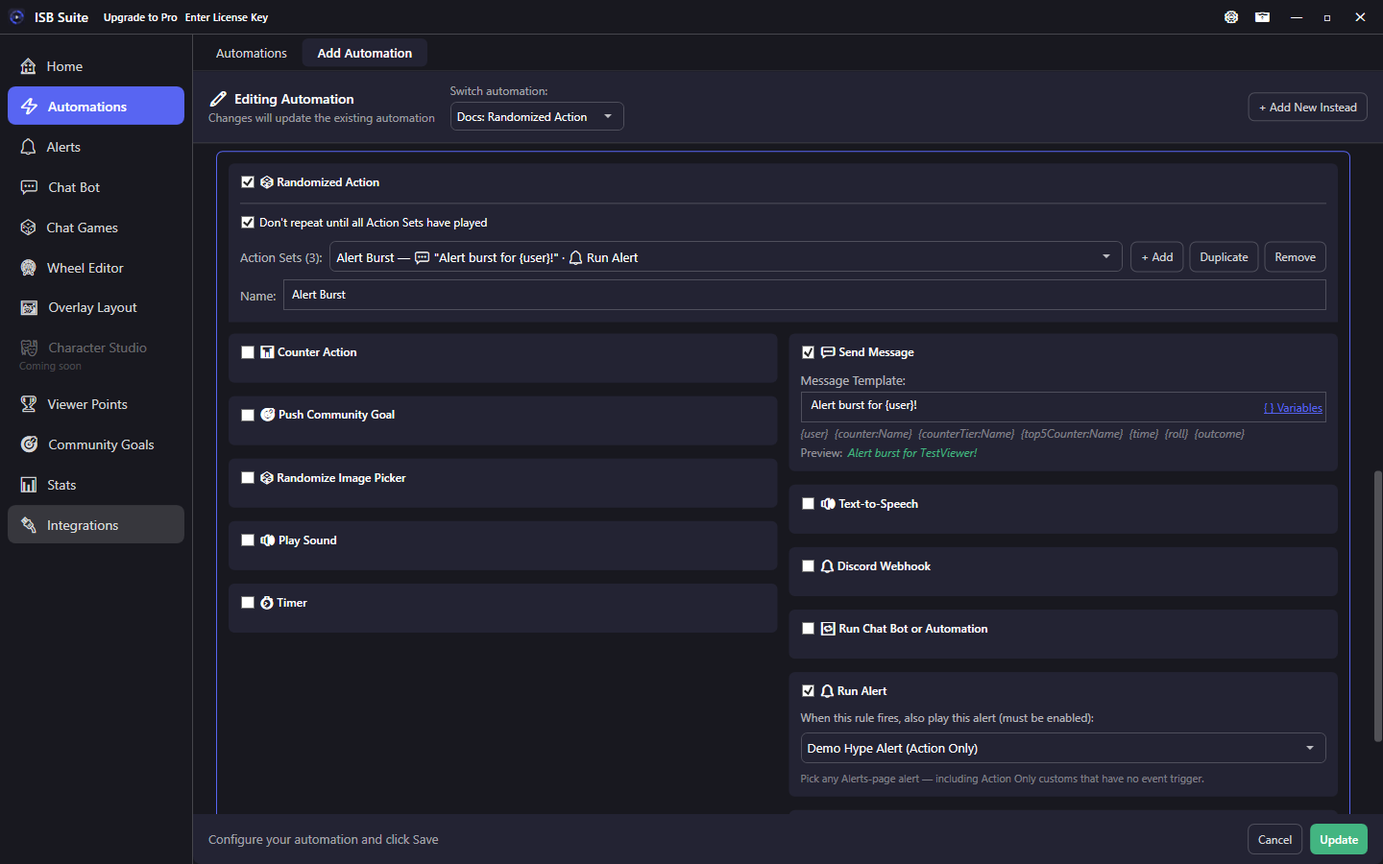
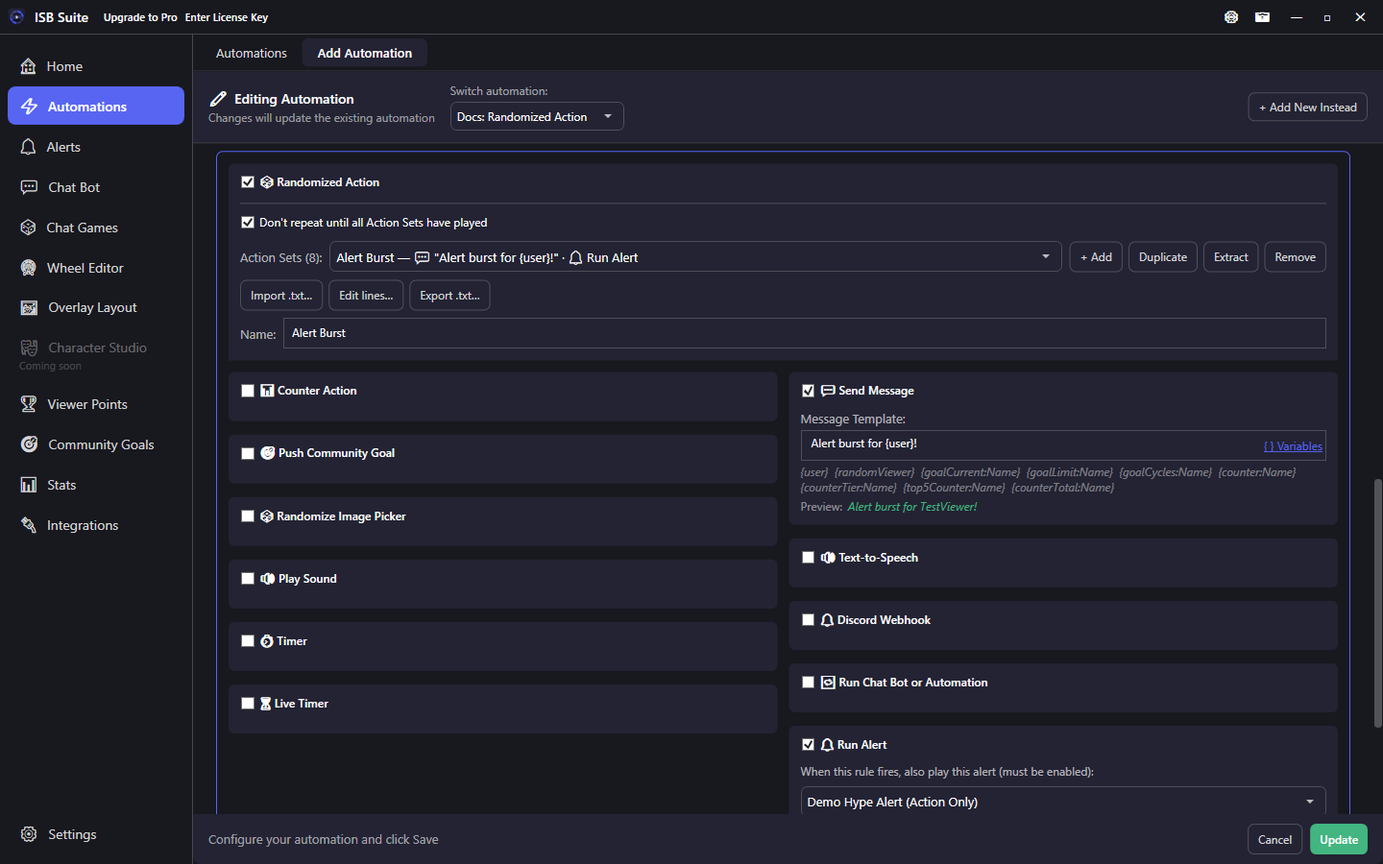
docs: randomized action txt import and README catch-up

diff --git a/docs/features/actions/randomized-action.html b/docs/features/actions/randomized-action.html
@@ -52,7 +52,7 @@
 
         <figure class="visual">
           <img src="/ISBSuiteReleases/docs/assets/screenshots/actions-randomized-action.png" alt="Randomized Action action setup in ISB Suite" />
-          <figcaption>Randomized Action with named Action Sets. The selected set (Prize Wheel) shows its own nested Actions below.</figcaption>
+          <figcaption>Randomized Action with named Action Sets. Import .txt, Edit lines, and Export .txt sit under the Action Set picker. The selected set (Prize Wheel) shows its own nested Actions below.</figcaption>
         </figure>
 
         <div class="ref-panel">
@@ -61,7 +61,7 @@
             <li>UI label: <strong>Randomized Action</strong> (above the main Actions grid).</li>
             <li>Each set is a full Actions payload (sound, chat, wheel, and so on).</li>
             <li>Modes: uniform, or Don&apos;t repeat until all Action Sets have played.</li>
-            <li><strong>Import .txt</strong>, <strong>Edit lines</strong>, and <strong>Export .txt</strong> work with Send Message sets (one line = one set). Edit lines is a searchable list: edit or add a line in that window, Ctrl/Shift-click to select several, and double-click a line to close it and jump to that set&apos;s Actions.</li>
+            <li><strong>Import .txt</strong> / <strong>Edit lines</strong> / <strong>Export .txt</strong> turn a list of chat lines into Action Sets. See <a href="#import">Import, edit, and export lines</a> for the file picker and Import lines dialog.</li>
             <li>Nested Randomized Action inside a set is stripped - keep randomness on the parent only.</li>
           </ul>
         </div>
@@ -69,6 +69,7 @@
         <nav class="toc"><strong>On this page</strong><ol>
           <li><a href="#how">How it works</a></li>
           <li><a href="#setup">Setup</a></li>
+          <li><a href="#import">Import, edit, and export lines</a></li>
           <li><a href="#sets">Action Sets</a></li>
           <li><a href="#modes">Modes</a></li>
           <li><a href="#usecases">Use cases</a></li>
@@ -82,13 +83,45 @@
           <h2>Setup</h2>
           <ol class="steps">
             <li>Enable <strong>Randomized Action</strong> at the top of Actions.</li>
-            <li>Add Action Sets and name them (Prize Wheel, Hype Pack, Alert Burst), or use <strong>Import .txt</strong> / <strong>Edit lines</strong> to create one set per Send Message line.</li>
-            <li>Inside each set, enable the Actions for that outcome (Send Message, Play Sound, Start Wheel Session, and so on). After a line import, open <strong>Edit lines</strong>, search, and double-click a line to jump to that set and add extras (sound, TTS, wheel) on that set only.</li>
-            <li>Optional: check <strong>Copy other actions from the selected set</strong> so every imported line also gets that set&apos;s extras, then overwrites Send Message.</li>
+            <li>Add Action Sets and name them (Prize Wheel, Hype Pack, Alert Burst), or import a list of chat lines (see <a href="#import">Import, edit, and export lines</a>).</li>
+            <li>Inside each set, enable the Actions for that outcome (Send Message, Play Sound, Start Wheel Session, and so on).</li>
             <li>Choose uniform vs no-repeat-until-all.</li>
           </ol>
           <p>To reuse an existing setup, use <strong>Import from Automation / Chat Bot</strong> above Randomized Action. A randomized source copies its Action Sets; a flat Chat Bot or Automation becomes one Action Set so Send Message stays on the set (not the Chat Bot parent Response field). Play Sound files are copied onto this rule. <strong>Extract</strong> on a set creates a standalone Automation for reuse and copies that set&apos;s sounds onto the new rule.</p>
-          <p><strong>Import .txt</strong> turns a list of chat lines into Action Sets (UTF-8, one non-empty line per set). The file is copied in - it is not watched on disk. Append keeps existing sets; Replace wipes them (you get an extra confirm if any set has actions besides Send Message). If you already have Action Sets, <strong>Edit lines</strong> opens a popup generated from those sets so you can search, edit or add a line in place, or edit-as-text. Ctrl+click and Shift+click select more than one line to delete. Double-click a line to close the popup and jump to that set&apos;s Actions. <strong>Export .txt</strong> writes Send Message templates for sets where Send Message is on, one per line. Hundreds of rotating lines still share the same Twitch chat rate limit.</p>
+        </section>
+        <section class="section" id="import">
+          <h2>Import, edit, and export lines</h2>
+          <p>The three buttons under the Action Set picker work with <strong>Send Message</strong> only: one non-empty line becomes one Action Set. Import copies the file into the rule. ISB Suite does not keep watching that .txt on disk, so later edits to the file do nothing until you import again. UTF-8. Empty lines are skipped. Commas, variables, and duplicate lines are kept. Hundreds of rotating lines still share the same Twitch chat rate limit.</p>
+          <h3>Import .txt</h3>
+          <p>Click <strong>Import .txt</strong>, pick a file, then review it in the <strong>Import lines</strong> dialog. You can still edit the text, choose Append or Replace, and optionally copy extras from the Action Set that was selected.</p>
+          <figure class="visual">
+            <img src="/ISBSuiteReleases/docs/assets/screenshots/actions-randomized-action-import-lines.png" alt="Import lines dialog with a list of Send Message lines, Append or Replace, and Copy other actions" />
+            <figcaption>Import lines: review the .txt, choose Append or Replace, optionally copy extras from the selected set, then Import.</figcaption>
+          </figure>
+          <ol class="steps">
+            <li>Optional: select an Action Set first if you want imported lines to copy that set&apos;s extras (sound, TTS, wheel, counters). The copy checkbox is disabled until a set is selected.</li>
+            <li>Click <strong>Import .txt</strong>. A file picker titled <strong>Import Action Set lines</strong> opens (*.txt, or any file).</li>
+            <li>After you pick a file, an <strong>Import lines</strong> dialog shows the file text so you can still edit it. The line count at the bottom is how many Action Sets will be created.</li>
+            <li>Choose <strong>Append to current Action Sets</strong> (keep what you have) or <strong>Replace current Action Sets</strong> (wipe them first).</li>
+            <li>Optional: check <strong>Copy other actions from the selected set</strong>. Each imported line gets that set&apos;s extras, then Send Message is overwritten with that line.</li>
+            <li>Click <strong>Import</strong>. Importing 50 or more lines asks for a second confirm. Replace also warns if any current set has actions besides Send Message (those extras would be dropped).</li>
+          </ol>
+          <p>An empty file (or only blank lines) shows <strong>No lines to import</strong> and never opens the dialog.</p>
+          <h3>Edit lines</h3>
+          <p><strong>Edit lines</strong> opens the <strong>Action Set lines</strong> window from the sets you already have. You do not need a file first. Search, add, or import more lines here, then double-click a line to jump to that set&apos;s Actions and attach a sound, TTS, or wheel.</p>
+          <figure class="visual">
+            <img src="/ISBSuiteReleases/docs/assets/screenshots/actions-randomized-action-edit-lines.png" alt="Action Set lines window with numbered Send Message lines, search, Import .txt, Export .txt, and Edit as text" />
+            <figcaption>Action Set lines: search and edit Send Message rows. Double-click a line to jump to that set&apos;s Actions.</figcaption>
+          </figure>
+          <ul>
+            <li>Search the list. Click a line to edit it in place, or <strong>Add line</strong> for a new set.</li>
+            <li>Double-click a line to close the window and jump to that set&apos;s Actions (attach a sound, TTS, or wheel on that set only).</li>
+            <li>Ctrl+click and Shift+click select more than one line, then <strong>Delete</strong>.</li>
+            <li>The same <strong>Import .txt</strong> / <strong>Export .txt</strong> buttons are in this window.</li>
+            <li><strong>Edit as text</strong> shows every Send Message as a plain list (one line per set). <strong>Apply text</strong> writes that order back; extra lines become new sets. <strong>Show list</strong> returns to the searchable list without applying.</li>
+          </ul>
+          <h3>Export .txt</h3>
+          <p><strong>Export .txt</strong> writes Send Message templates for sets where Send Message is on, one per line (file picker titled <strong>Export Action Set lines</strong>, default name <code>action-set-lines.txt</code>). Sets with Send Message off are skipped. If none have a Send Message, export is refused.</p>
         </section>
         <section class="section" id="sets">
           <h2>Action Sets</h2>
@@ -114,7 +147,7 @@
           <ul>
             <li><strong>Mystery prize redeem</strong> - Channel points -&gt; three sets: Start Wheel Session on Prize Wheel, a sound+TTS hype pack, and Run Alert - with no-repeat so viewers cycle the pool.</li>
             <li><strong>Raid variety</strong> - Raid automation -&gt; several Play Sound + Send Message sets so back-to-back raids do not feel identical.</li>
-            <li><strong>Rotating chat lines</strong> - Import a .txt of hype lines, or open Edit lines from the sets you already have, then search and double-click a line to attach a sound or TTS.</li>
+            <li><strong>Rotating chat lines</strong> - Import a .txt of hype lines (file picker, then the Import lines dialog), or open Edit lines from the sets you already have, then search and double-click a line to attach a sound or TTS.</li>
             <li><strong>Shop roulette</strong> - Viewer Points item -&gt; sets that each Start Wheel Session on a different preset plus a unique chat line.</li>
           </ul>
         </section>

diff --git a/docs/reference/use-cases.html b/docs/reference/use-cases.html
@@ -69,6 +69,7 @@
               <tr><td>Duel Chat Game</td><td>Chat Games preset: <code>!duel user amount</code>, opponent <code>!accept</code> / <code>!decline</code>; 50/50 stake transfer</td></tr>
               <tr><td>Solo Gamble</td><td>Chat Games preset: per-viewer win/lose roll with separate Win and Lose action phases</td></tr>
               <tr><td>Random Hype Sound</td><td>Automation with Randomized Action and 3 action sets, each playing a different sound</td></tr>
+              <tr><td>Rotating chat lines</td><td>Randomized Action: <strong>Import .txt</strong> of hype lines (file picker, then Import lines dialog). <a href="/ISBSuiteReleases/docs/features/actions/randomized-action.html#import">Full import steps</a>. <strong>Edit lines</strong> to attach a sound per line</td></tr>
               <tr><td>Live leaderboard in chat</td><td>Custom command or timer: <code>Top 5: {top5Counter:Wins}</code> on a per user counter</td></tr>
               <tr><td>Subathon Countdown</td><td>Automation with the <a href="/ISBSuiteReleases/docs/features/actions/live-timer.html">Live Timer</a> action driving a Live Clock on a Timer Widget (not the delay-queue Timer). Optional Live Timer Ended trigger for natural zero</td></tr>
               <tr><td>Custom Alert on tier up</td><td>Custom Alert: Counter Tier Reached shows a GIF and TTS when a viewer hits Gold</td></tr>

diff --git a/docs/reference/message-variables.html b/docs/reference/message-variables.html
@@ -82,7 +82,7 @@
             <thead><tr><th>Variable</th><th>Value</th></tr></thead>
             <tbody>
               <tr><td><code>{user}</code></td><td>Viewer&apos;s display name (requires a Twitch trigger)</td></tr>
-              <tr><td><code>{randomViewer}</code></td><td>Random current chatter&apos;s display name (anyone in chat now, including the linked bot). Empty when chat is empty. Repeated uses in one message share the same name.</td></tr>
+              <tr><td><code>{randomViewer}</code></td><td>Random current chatter&apos;s display name (anyone in chat now, including the linked bot). Same name for every use in one message, and for chat, TTS, Discord, and alerts on the same fire. Only fills while the stream is live (same chatters list Watch Time uses). Empty chat or offline substitutes nothing.</td></tr>
               <tr><td><code>{displayName}</code></td><td>Alias for <code>{user}</code> (Follow Age / Watch Time)</td></tr>
               <tr><td><code>{winner}</code></td><td>Winning wheel entry text (also when an automation runs from a wheel entry win)</td></tr>
               <tr><td><code>{wheel}</code></td><td>Wheel / preset name</td></tr>

diff --git a/README.md b/README.md
@@ -5,7 +5,7 @@ A full-featured stream overlay suite for Twitch streamers. Spin wheels, run give
 ![Windows](https://img.shields.io/badge/Windows-10%2B-blue?logo=windows)
 [![Latest Release](https://img.shields.io/github/v/release/Thadestroy/ISBSuiteReleases?label=Download)](https://github.com/Thadestroy/ISBSuiteReleases/releases/latest)
 
-> **ISB Suite is an ongoing project.** Feedback, bug reports, and feature ideas are fully welcomed. [Open an issue](https://github.com/Thadestroy/ISBSuiteReleases/issues) to report a bug or request a feature. To talk setups and share how you use ISB Suite, [join the Discord](https://discord.gg/w834PyCCgb).
+> **ISB Suite is an ongoing project.** Feedback, bug reports, and feature ideas are fully welcomed. [Open an issue](https://github.com/Thadestroy/ISBSuiteReleases/issues) to report a bug or request a feature. To talk setups and share how you use ISB Suite, [join the Discord](https://discord.gg/w834PyCCgb). Step-by-step feature guides: [ISB Suite docs](https://thadestroy.github.io/ISBSuiteReleases/docs/).
 
 ---
 
@@ -102,8 +102,8 @@ Animated on-screen alerts for stream events, displayed in the Alert Box widget o
 
 **Twitch Alerts**
 - Follow, New Subscription, Resubscription, Subscription Gifter, Subscription Gift Receiver
-- Bits / Cheer, Raid, Hype Train End, Goal Achieved
-- Ad Break, Shoutout Received, Channel Point Redemption
+- Bits / Cheer, Raid, Hype Train End, Hype Train Level Up, Goal Achieved
+- Ad Break (optional pre-warnings and welcome-back), Shoutout Received, Stream Went Live, Channel Point Redemption
 - New Subscription and Resubscription follow Twitch chat announcements (a silent payment / badge change with no chat notice does not fire a New Subscription alert)
 - Subscription Gifter is gifter-linked (bulk count). Subscription Gift Receiver fires once per recipient (`{user}` = gifted viewer, `{gifter}` = gifter)
 
@@ -164,6 +164,7 @@ Design exactly what gets captured by your streaming software using the built-in 
 | **Browser Source** | Renders a live web page (URL) inside the capture, like an OBS/Streamlabs browser source |
 | **Random Image Picker** | Displays one randomly chosen image from a Random Image Picker; re-rolled by the "Randomize Image Picker" automation action |
 | **Timer Widget** | Delay-queue countdown or Live Clock (Subathon); see [Timer Widget](#timer-widget) |
+| **Goals** | Live Community Goal progress bar; bind any goal and style the bar per placement |
 | **Character Playfield** | *(coming soon)* |
 
 ### Character Studio
@@ -177,9 +178,9 @@ Create a custom channel currency with a redeemable shop and point drops:
 - Customizable balance response, not-enough-points message, and redemption confirmation message
 
 **Earn Rules**
-- Automatically award points on a schedule while viewers are present in chat during a live stream
-- **Watching (live presence):** set an interval (e.g. every 5 minutes) and how many points to award
-- Requires **Stats ? Watch Time** to be enabled (uses the same live chat presence poll)
+- **Watching (live presence):** award on a schedule while viewers are in chat during a live stream. Requires **Stats > Watch Time** (same live chat presence poll)
+- **Event rules:** chat, follow, sub, resub, gift (gifter and receiver), raid, bits, and channel-point redemption. Gift bombs pay the gifter once per gifted sub. Bits, raid, and gift count support At least / Exactly (leave blank for every event). Tiltify donations are not an earn trigger
+- **Watching**, **Subscription**, and **Resubscription** can add extra points for current T1 / T2 / T3 subscribers (Prime counts as T1). Set the base to 0 if only subscribers should earn
 
 **Viewer Commands**
 - **Balance command:** viewers type `!points` (or your custom command) to check their balance
@@ -223,9 +224,11 @@ Connect any stream event to any action. Automations live in the **Automations** 
 | Follow | Any new follow |
 | Raid | Any raid, or with minimum viewer count |
 | Hype Train End | Any level, or minimum level |
+| Hype Train Level Up | Once per level increase; any level, or at least / exact |
 | Goal Achieved | Any goal type, or filtered by type string |
-| Ad Break | Any duration, or a specific ad length; optional chat warnings a few minutes before the scheduled ad (same style as giveaway countdown reminders) |
+| Ad Break | Any duration, or a specific ad length; optional chat warnings before the ad; optional welcome-back when ads end |
 | Shoutout Received | Any shoutout from another broadcaster |
+| Stream Went Live | Once per broadcast (not on reconnect or mid-stream app restart with the same stream id) |
 | Custom Chat Command | Your own `!command` with permission level, optional cooldown, **aliases**, and optional **Match anywhere in message** |
 | Counter Tier Reached | When a viewer (per-user counter) or the channel (global counter) crosses upward into the next configured tier on a selected counter; fires once per tier gained if several thresholds are crossed in one increment |
 | Counter Value Changed | When a counter's value actually changes (once per change, not per unit); filter by increases / decreases / either way, and optionally by counter |
@@ -256,13 +259,15 @@ Connect any stream event to any action. Automations live in the **Automations** 
 | Run Chat Bot or Automation | Trigger another Automations rule or Chat Bot overview item (searchable; chains keep the original chatter's variables) |
 | Push Community Goal | Add progress to one or more goals; optional **Use amount from trigger** (Bits cheer or Chat Message Match `<amount>`) |
 
-**Cooldown & Limits:** Every automation can combine a time cooldown (None / Global / Per-User) with per-stream limits (max fires globally and/or per user; `0` = unlimited). Limits reset when a new stream session starts (same boundary as walk-ons). Separate optional chat replies for “on cooldown” vs “hit limit.” Channel Point redemptions: Twitch still accepts the redeem and charges points. ISB Suite only skips running the automation when blocked (reject/refund is not supported yet).
+**Cooldown & Limits:** Every automation can combine a time cooldown (None / Global / Per-User) with per-stream limits (max fires globally and/or per user; `0` = unlimited). Optional **burst**: if used N times within a window you set (for example 5 times in 30 seconds), a longer cooldown starts. The normal per-use duration is independent and can be off. Limits reset when a new stream session starts (same boundary as walk-ons). Separate optional chat replies for “on cooldown” vs “hit limit.” Channel Point redemptions: Twitch still accepts the redeem and charges points. ISB Suite only skips running the automation when blocked (reject/refund is not supported yet).
 
 **Command Aliases:** Chat command triggers accept alternate names that fire the same automation. Longer matching aliases win when several could match, and any leftover text after the alias becomes `{input}`.
 
 **Bypass Sound Queue:** play a sound immediately (overlapping) instead of waiting in queue.
 
-**Randomized Action:** Enable on any automation (or shop item / chat game) to define multiple action sets. Each trigger randomly runs one set ? uniform random, or **no repeat until all** so every set plays once before any repeats. Useful for varied hype sounds, rotating chat responses, or unpredictable wheel loads from a single command.
+**Randomized Action:** Enable on any automation (or shop item / chat game) to define multiple action sets. Each trigger randomly runs one set: uniform random, or **no repeat until all** so every set plays once before any repeats. Useful for varied hype sounds, rotating chat responses, or unpredictable wheel loads from a single command.
+
+**Import / Edit / Export lines:** On Randomized Action, **Import .txt** opens a file picker, then an **Import lines** dialog so you can still edit the text. Choose Append or Replace. Optional **Copy other actions from the selected set** copies that set's extras (sound, TTS, wheel) onto every imported line, then overwrites Send Message. **Edit lines** is a searchable list of the sets you already have (double-click a line to jump to that set's Actions; **Edit as text** for a plain list). **Export .txt** writes Send Message templates, one per line. The file is copied in; ISB Suite does not watch it on disk. Full steps: [Randomized Action](https://thadestroy.github.io/ISBSuiteReleases/docs/features/actions/randomized-action.html#import).
 
 **Timer:** Enable the Timer action to delay everything else on the rule until the countdown finishes. Link a Timer Widget preset to show the live countdown on your overlay while chat, alerts, and other deferred actions wait.
 
@@ -286,6 +291,7 @@ Track numbers that persist across streams:
 - **Global Counters:** single shared value (e.g., "Deaths This Stream", "Wheels Spun")
 - **Per-User Counters:** separate value per Twitch viewer (e.g., "Times Won", "Giveaway Entries")
 - On **Counter Stats**, each per-user counter card shows a **Total** in the header (sum of all users)
+- Optional **thousands separators** (`1,234`) per Number counter (off by default). Toggle on Stats, Counter Options, or Create Counter. Chat, alerts, TTS, and Discord use the same setting. Watch Time and CSV stay raw integers
 - Change from automations, entry actions, or viewer-points redemptions via **Counter Action**: **Change by** (signed number, ± another counter, or a rolled range) or **Set to** an absolute value (0 resets). Example: Change by −[tax pot] on a viewer's balance, then Set the pot to 0. Range amounts (e.g. −100 to 100) roll once each time the action fires. `{amount}` is the resolved amount from the first counter action.
 
 **Counter Tiers:** Any counter can have a tier ladder (e.g. 0 = Bronze, 10 = Silver, 50 = Gold). The active tier updates automatically as values change and is shown on the Stats page. Use `{counterTier}` in chat or alert templates after an increment action, on a **Counter Tier Reached** automation trigger (the tier that was just gained), or `{counterTier:CounterName}` to read any counter's **current** tier for that user.
@@ -295,14 +301,17 @@ Track numbers that persist across streams:
 ### Community Goals
 Track stream-wide milestones (bits, subs, follows, raids, chat bot lines, or manual pushes from automations). Managed in the **Community Goals** tab.
 
-- Set a limit and one or more **accumulation modes** (checkboxes; combine freely): **Manual**, **Twitch Data** (EventSub bits/subs/follows/raids), and/or **Chat Message**
+- Set a limit and one or more **accumulation modes** (checkboxes; combine freely): **Manual**, **Twitch Data** (EventSub bits/subs/follows/raids), **Chat Message**, and/or **Viewer Points**
 - **Chat Message** watches a specific chatter and a message pattern with `<amount>` (e.g. `used <amount> bits`). Useful for extension/Blerp bits that never fire as Twitch cheers (`CoolViewer used 25 bits to play ...` becomes +25). Prefer this *or* a Chat Message Match automation that pushes the same goal; do not use both, or progress doubles
+- **Viewer Points:** bind a currency so viewers spend 1:1 into the goal (optional contribute command such as `!goal 50`; same name as Check is fine). **Refund VP** credits those points without unwinding Goal Reached
+- When the limit is hit: **Carry Over**, **Zero Out**, or **Stop at limit** (bar stays full, Goal Reached fires once, further progress including VP contribute stops until Reset)
 - Automations can also use **Chat Message Match** plus **Push Community Goal** with **Use amount from trigger**
 - Optional **Check Command** per goal (e.g. `!bitsgoal`) so anyone in chat can ask for progress
 - Customizable response template. Default `{goalProgress}` replies like `15/100`
 - **Advanced Settings** on check commands (same as other chat commands): aliases, match anywhere, permission, cooldown, and per-stream limits
 - Check commands also appear on the **Chat Bot** overview; Edit opens that goal's settings
 - Trigger automations or Custom Alerts on **Community Goal Reached**
+- Place a **Goals** widget on Overlay Layout to show the bar on stream
 
 ### Chat Games
 Run mass-entry chat games where viewers join from chat, stake a counter value, and get independent or shared outcomes. Managed in the **Chat Games** tab; each game is its own rule with the same trigger and action building blocks as Automations.
@@ -420,6 +429,7 @@ ISB Suite is an ongoing project. If there's a platform or service you'd like int
 | `!givepoints @user amount` | Give your own points to another viewer |
 | `!gamble amount` | Wager points on a configurable win-chance roll (`amount`, `amount%`, or `all`; decimals allowed and round to a whole stake) |
 | `!giveaway` | Enter an active giveaway |
+| *goal contribute* | On a Community Goal with Viewer Points mode, type the contribute command plus a whole number (e.g. `!goal 50`) |
 | *any shop command* | Spend points on shop items you've configured |
 
 ### Mod & Broadcaster Commands
@@ -434,6 +444,7 @@ ISB Suite is an ongoing project. If there's a platform or service you'd like int
 | `!resumetimer {name}` | Resume a paused Live Clock |
 | `!addtime {name} {duration}` | Add time to a Live Clock (e.g. `5m`, `30s`, `1h`) |
 | `!removetime {name} {duration}` | Remove time from a Live Clock |
+| `!so @user` / `!shoutout` | Shout out a channel (Nightbot style). Customize the template in Chat Bot. Built in; does not use a Free chat command slot |
 | `!vpgive @user amount` | Give points to a viewer (admin give command) |
 | `!customcommand` | Any custom command you've set up in Automations |
 
@@ -450,7 +461,7 @@ ISB Suite is an ongoing project. If there's a platform or service you'd like int
 
 **Don't trigger from the broadcaster or linked bot:** On Chat Bot, Custom Alerts, Automations Chat Command, Chat Games start, and Saved Lists, an optional per-command toggle skips the streamer and a linked bot account (prefix or mid-message). Same rule either way you send chat. Off by default.
 
-**Permission, cooldown & limits:** Viewer Points commands (including shop redeem and point-drop claim), Chat Game join, Community Goal check commands, and related editors share one Advanced Settings block for permission, time cooldown, and per-stream limits (with optional chat replies). New limit fields default to unlimited; existing cooldowns keep working.
+**Permission, cooldown & limits:** Viewer Points commands (including shop redeem and point-drop claim), Chat Game join, Community Goal check and contribute commands, and related editors share one Advanced Settings block for permission, time cooldown (optional burst after N uses in a window), and per-stream limits (with optional chat replies). New limit fields default to unlimited; existing cooldowns keep working.
 
 ---
 
@@ -461,6 +472,7 @@ Use these in chat messages, alert text, and TTS text. In the app, the Variables 
 | Variable | Value |
 |----------|-------|
 | `{user}` | Display name of the user who triggered the event (Subscription Gift Receiver: the recipient) |
+| `{randomViewer}` | Random current chatter's display name (including the linked bot). Same name for every use on one fire. Only fills while live; empty chat or offline substitutes nothing |
 | `{gifter}` | Gifter display name (Subscription Gift Receiver only) |
 | `{winner}` | The winning wheel entry's text (also works in automations triggered by a wheel entry win) |
 | `{entry}` | Alias for `{winner}` (wheel); Saved Lists use `{entry}` for list entry text |
@@ -513,12 +525,14 @@ Create and customize wheels from the **Wheel Editor** tab.
 - **Allow `!join` from Chat:** let viewers add themselves via chat
 - **Remove Winners After Spin:** auto-removes the winner slice so it can't win twice
 - **Allow Duplicates:** permit the same name on the wheel more than once
+- **Equal slice sizes (visual only):** draw every slice the same size; the % column (real odds) stays as set. Use **Reset Chances** when you want equal weights
 - **Announce Winner in Chat:** send the winner message to Twitch chat automatically
 - **Custom Winner Message:** override the default `The winner is: {winner}!` template
 
 ### Managing Entries
 - Add entries one at a time with **+ Add Entry**
 - Bulk import from text with **Bulk Import** (one entry per line)
+- **Reset Chances** sets unlocked entries to equal chance (this changes real odds). Use **Equal slice sizes (visual only)** when you want the wheel to look even without changing those percentages
 - Edit text, color, and per-entry actions for each entry
 - Duplicate entries to quickly create similar ones
 
@@ -547,6 +561,7 @@ ISB Suite renders your overlay in its own window with a transparent background. 
 - Use layout hotkeys to switch between multiple named layouts without touching your streaming software
 - Make sure the Window is capturing "ISBSuite.exe: ISB Suite - Capture"
 - Verify that the Capture Method is using "Windows 10"
+- After an ISB Suite update, Window Capture should rematch the Capture window without changing Window Match Priority
 
 ---
 
@@ -569,6 +584,7 @@ ISB Suite renders your overlay in its own window with a transparent background. 
 | **Duel Chat Game** | Chat Games preset: `!duel user amount`, opponent `!accept` / `!decline`; 50/50 stake transfer |
 | **Solo Gamble** | Chat Games preset: per-viewer win/lose roll with separate Win and Lose action phases |
 | **Random Hype Sound** | Automation with Randomized Action and 3 action sets, each playing a different sound |
+| **Rotating chat lines** | Randomized Action: **Import .txt** of hype lines (file picker, then Import lines dialog); **Edit lines** to attach a sound per line |
 | **Live leaderboard in chat** | Custom command or timer automation: `Top 5: {top5Counter:Wins}` on a per-user counter |
 | **Subathon Countdown** | Automation with the **Live Timer** action driving a Live Clock on a Timer Widget — not the delay-queue Timer. Optional Live Timer Ended trigger for natural zero |
 | **Custom Alert on tier up** | Custom Alert: Counter Tier Reached shows a GIF and TTS when a viewer hits Gold |
@@ -636,17 +652,26 @@ Access via the **Viewer Points** tab.
 5. Add shop items viewers can spend points on
 
 ### Earn Rules
-On each currency's editor, open **Earn Rules** and click **+ Add Earn Rule**.
+On each currency's editor, open **Earn Rules** and click **+ Add Earn Rule**. Points always go to the viewer who earned them, not to everyone in chat.
 
-**Watching (live presence)** ? award points on a timer while a viewer is in chat during a live stream:
+**Watching (live presence)** awards points on a timer while a viewer is in chat during a live stream:
 1. Set **Rule Name** and choose trigger **Watching (live presence)**
 2. **Award every:** interval (seconds, minutes, or hours)
-3. **Points to Award:** how many points per interval
-4. Save the currency
+3. **Points they earn:** how many points per interval
+4. Optional extras for current **Tier 1**, **Tier 2**, and **Tier 3** subscribers live under **Advanced Settings** (added on top of the base). Prime counts as Tier 1. Set the base to 0 if only subscribers should earn. The same extras can be set on Subscription and Resubscription event rules.
+5. Save the currency
 
-**Prerequisite:** enable **Stats ? Watch Time** and ensure Twitch is connected with the `moderator:read:chatters` scope (reconnect in Settings if watch-time accrual is paused). Watching earn rules use the same once-per-minute live poll as watch time. If Watch Time is off, the app prompts you to enable it before adding or saving an **enabled** Watching rule.
+**Prerequisite:** enable **Stats > Watch Time** and ensure Twitch is connected with the `moderator:read:chatters` scope (reconnect on **Integrations** if watch-time accrual is paused). Watching earn rules use the same once-per-minute live poll as watch time. If Watch Time is off, the app prompts you to enable it before adding or saving an **enabled** Watching rule. Other earn triggers do not need Watch Time.
 
-> Additional earn triggers (chat messages, follows, subs, bits, raids, etc.) are planned for a future update.
+**Event triggers** (same family Automations already see, when the event carries a Twitch user id):
+- **Chat Message** - after N chat messages (commands like `!points` do not count)
+- **Follow**, **Subscription**, **Resubscription**
+- **Subscription Gifter** - once per gifted sub (a bomb of 5 awards 5 times). Optional gift count with At least or Exactly
+- **Subscription Gift Receiver**
+- **Raid** / **Bits** - optional count or amount with At least or Exactly
+- **Channel Point Redemption** - optional reward name; leave blank for every reward
+
+Tiltify donations are not an earn trigger: they do not identify a Twitch viewer.
 
 ### Point Drops (Detailed)
 Configure drops under the **Point Drops** sub-tab:
